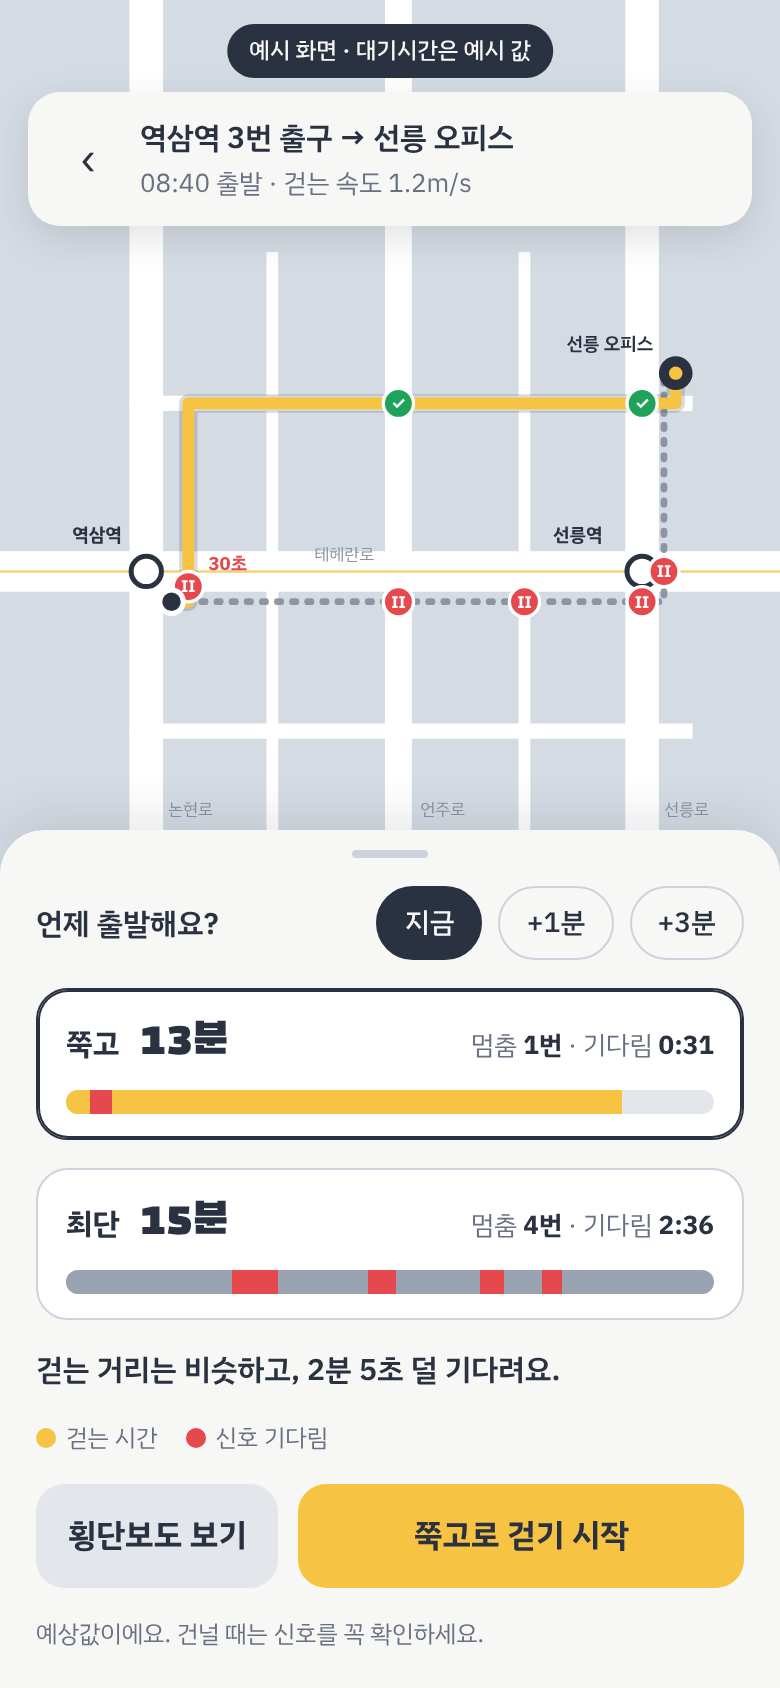
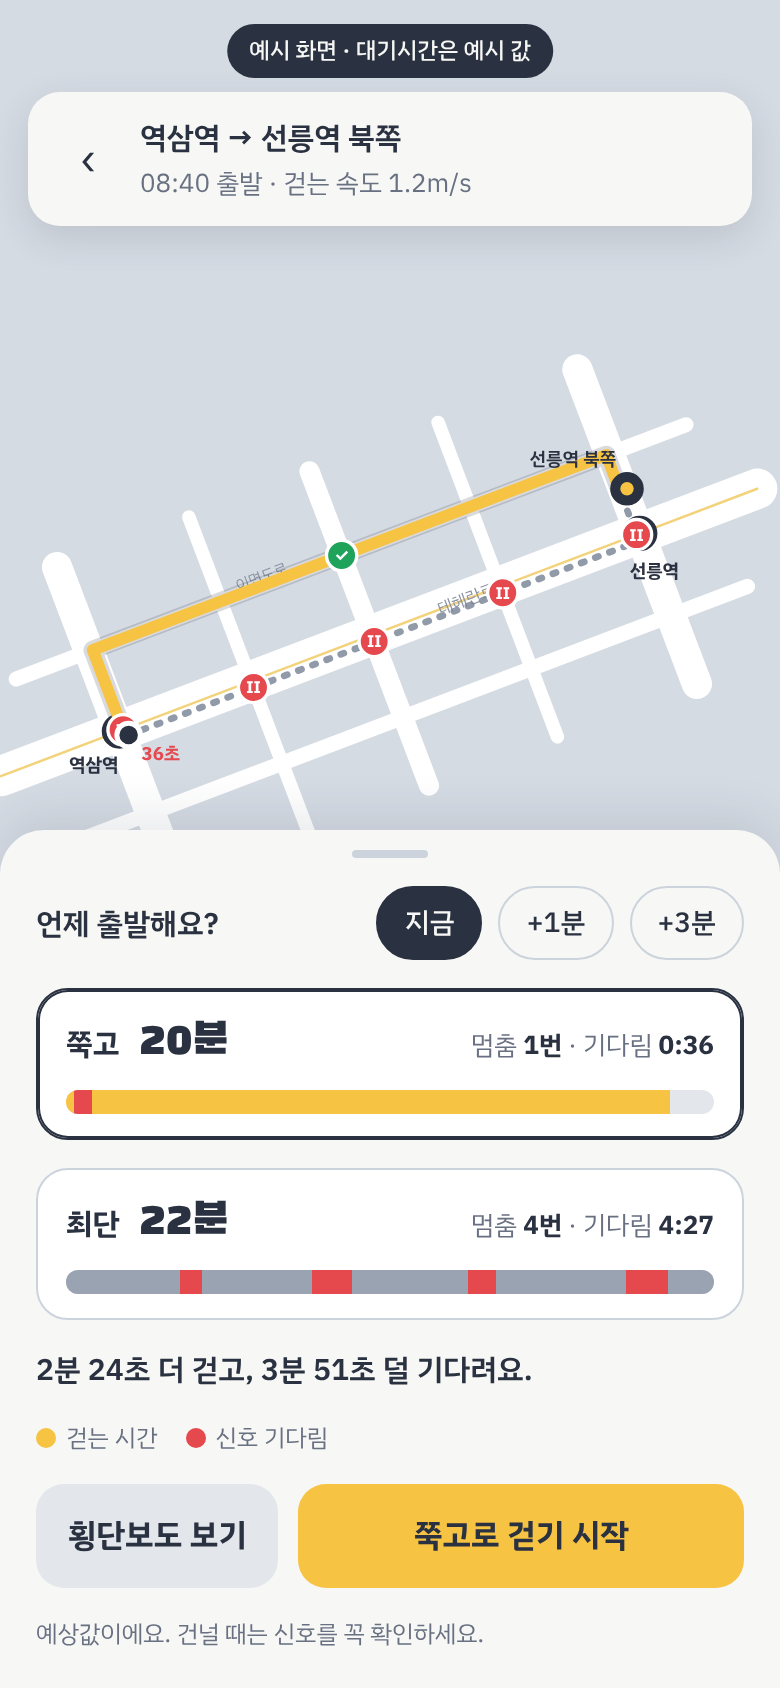
Prototype: draw the real Teheran-ro corridor
Place Yeoksam-Seolleung intersections at their real positions from the
nationwide intersection list and route along the real layout: the shortest
path follows Teheran-ro past four signals, the Jjukgo path takes the parallel
back street past two. Signal plans are still example values, retuned for the
new routes.

Claude-Session: https://claude.ai/code/session_01Y2WgFcYuk5dsuevPeJgQ1A

diff --git a/docs/prototype/index.html b/docs/prototype/index.html
@@ -191,13 +191,13 @@ button:focus-visible, input:focus-visible { outline: 3px solid var(--asphalt); o
     <div class="home-chips chips">
       <button class="chip" data-go="result">회사</button>
       <button class="chip" data-go="result">집</button>
-      <button class="chip" data-go="result">최근 · 선릉 오피스</button>
+      <button class="chip" data-go="result">최근 · 선릉역 북쪽</button>
     </div>
     <div class="sheet">
       <div class="grip"></div>
       <div class="row-label"><h2>지금 여기는 신호 패턴을 알고 있어요</h2></div>
       <p class="safety" style="font-size:13px">테헤란로 역삼역–선릉역 구간의 횡단보도는 신호 주기를 반영해 길을 찾아요. 다른 곳은 신호 개수만 따져요.</p>
-      <button class="btn btn-primary" data-go="result">선릉 오피스까지 길 찾기</button>
+      <button class="btn btn-primary" data-go="result">선릉역 북쪽까지 길 찾기</button>
     </div>
   </section>
 
@@ -206,7 +206,7 @@ button:focus-visible, input:focus-visible { outline: 3px solid var(--asphalt); o
     <div class="map" id="map-result"></div>
     <div class="topbar">
       <button class="icon-btn" data-go="home" aria-label="뒤로">‹</button>
-      <div class="trip"><b>역삼역 3번 출구 → 선릉 오피스</b><span id="depart-label">08:40 출발 · 걷는 속도 1.2m/s</span></div>
+      <div class="trip"><b>역삼역 → 선릉역 북쪽</b><span id="depart-label">08:40 출발 · 걷는 속도 1.2m/s</span></div>
     </div>
     <div class="sheet">
       <div class="grip"></div>
@@ -268,7 +268,7 @@ button:focus-visible, input:focus-visible { outline: 3px solid var(--asphalt); o
       <span class="logo">쭉고</span>
       <span class="date" id="card-date"></span>
       <div id="card-shape"></div>
-      <div class="kind">걷기 · 역삼역 → 선릉</div>
+      <div class="kind">걷기 · 역삼역 → 선릉역</div>
       <div class="stats">
         <div class="stat-big"><strong id="c-stops"></strong><span>멈춘 횟수</span></div>
         <div class="stat-big"><strong id="c-wait"></strong><span>신호 기다림</span></div>
@@ -284,25 +284,29 @@ button:focus-visible, input:focus-visible { outline: 3px solid var(--asphalt); o
 </div>
 
 <script>
-// 예시 데이터. 좌표는 지도 SVG(390×430) 기준, 1px ≈ 2m. 신호 계획(주기·초록·시작 오프셋)은 예시 값.
-const SPEED = 1.2, MPX = 2, BASE = 8 * 3600 + 40 * 60;
+// 경로 좌표는 미터 단위 (a = 테헤란로를 따라 역삼역에서 선릉역 쪽으로, p = 테헤란로에서 북쪽으로).
+// 교차로 위치는 전국 교차로 목록(행정안전부 한국지역정보개발원, 2026-10-28 수집)의 실제 좌표에서 계산했다.
+// 신호 계획(주기·초록 시간·시작 오프셋)은 아직 예시 값이다. 수집한 실제 주기로 바꿀 예정.
+const SPEED = 1.2, MPX = 1, BASE = 8 * 3600 + 40 * 60;
+const ANG = 20.8 * Math.PI / 180, UX = Math.cos(ANG), UY = Math.sin(ANG);
+const SCALE = 0.29, X0 = 34, Y0 = 345;   // 지도: 1px ≈ 3.4m, 북쪽이 위
+const P = (a, p) => { const e = a * UX - p * UY, n = a * UY + p * UX; return [+(X0 + e * SCALE).toFixed(1), +(Y0 - n * SCALE).toFixed(1)]; };
 const SIG = {
-  a: { c: 140, g: 30, o: 42, name: "테헤란로 횡단보도" },
-  b: { c: 140, g: 35, o: 9, name: "언주로 횡단보도 (북쪽)" },
-  c: { c: 150, g: 35, o: 95, name: "선릉로 횡단보도 (북쪽)" },
-  d: { c: 150, g: 25, o: 138, name: "언주로 횡단보도 (남쪽)" },
-  e: { c: 120, g: 35, o: 89, name: "역삼 골목 앞 횡단보도" },
-  f: { c: 140, g: 25, o: 17, name: "선릉로 횡단보도 (남쪽)" },
-  g: { c: 150, g: 25, o: 75, name: "선릉역 앞 테헤란로 횡단보도" },
+  "2217": { c: 150, g: 30, o: 53,  name: "역삼역 테헤란로 횡단보도" },
+  "2975": { c: 150, g: 25, o: 124, name: "고등교육재단 앞 횡단보도" },
+  "2219": { c: 150, g: 30, o: 124, name: "르네상스호텔 앞 횡단보도" },
+  "2974": { c: 150, g: 40, o: 117, name: "국민은행테헤란로 앞 횡단보도" },
+  "2212": { c: 150, g: 35, o: 12,  name: "선릉역 테헤란로 횡단보도" },
+  "4500": { c: 150, g: 40, o: 42,  name: "KT강남지사 앞 횡단보도" },
 };
 const ROUTES = {
-  jjuk: { label: "쭉고", pts: [[65,268],[75,268],[75,150],[200,150],[345,150],[365,150],[365,132]],
-    x: [{ at:[75,259], s:"a" }, { at:[125,150], s:null, name:"골목 (신호 없음)" }, { at:[200,150], s:"b" },
-        { at:[275,150], s:null, name:"골목 (신호 없음)" }, { at:[345,150], s:"c" }] },
-  short: { label: "최단", pts: [[65,268],[358,268],[358,132],[365,132]],
-    x: [{ at:[125,268], s:null, name:"골목 (신호 없음)" }, { at:[200,268], s:"d" }, { at:[275,268], s:"e" },
-        { at:[345,268], s:"f" }, { at:[358,250], s:"g" }, { at:[358,150], s:null, name:"이면도로 (신호 없음)" }] },
+  jjuk: { label: "쭉고", pts: [[15,-14],[8,-14],[8,175],[1135,175],[1135,95],[1150,95]],
+    x: [{ at:[8,0], s:"2217" }, { at:[289,175], s:null, name:"이면도로 골목 (신호 없음)" }, { at:[554,175], s:"4500" },
+        { at:[836,175], s:null, name:"이면도로 골목 (신호 없음)" }] },
+  short: { label: "최단", pts: [[15,-14],[1135,-14],[1135,95],[1150,95]],
+    x: [{ at:[289,-14], s:"2975" }, { at:[554,-14], s:"2219" }, { at:[836,-14], s:"2974" }, { at:[1135,0], s:"2212" }] },
 };
+const START = [15, -14], DEST = [1150, 95];
 
 function polyLen(p) { let s = 0; for (let i = 0; i < p.length - 1; i++) s += Math.hypot(p[i+1][0]-p[i][0], p[i+1][1]-p[i][1]); return s; }
 function along(pts, p) {
@@ -355,52 +359,52 @@ function phrase(s) { s = Math.round(Math.abs(s)); const m = Math.floor(s/60), r 
 
 // ---------- 지도 ----------
 function mapSVG(opts) {
-  const roads = [
-    // [x1,y1,x2,y2,width,name]
-    [-200,250,600,250,24,"테헤란로"], [40,150,375,150,9,""], [40,345,375,345,9,""],
-    [50,-400,50,640,20,"논현로"], [200,-400,200,640,16,"언주로"], [345,-400,345,640,20,"선릉로"],
-    [125,60,125,420,7,""], [275,60,275,420,7,""],
-  ];
+  const line = (pts, w, color, extra = "") => `<polyline points="${pts.map(q => P(...q).join(",")).join(" ")}" fill="none" stroke="${color}" stroke-width="${w}" stroke-linecap="round" stroke-linejoin="round" ${extra}/>`;
   const pad = opts.pad || 0;
-  let s = `<svg viewBox="0 ${-pad} 390 ${430 + pad}" preserveAspectRatio="xMidYMid meet" role="img" aria-label="역삼역에서 선릉역까지 지도">`;
+  let s = `<svg viewBox="0 ${-pad} 390 ${430 + pad}" preserveAspectRatio="xMidYMid meet" role="img" aria-label="역삼역에서 선릉역까지 테헤란로 지도">`;
   s += `<rect x="-200" y="${-pad - 200}" width="790" height="${830 + pad}" fill="var(--block)"/>`;
-  for (const [x1,y1,x2,y2,w] of roads) s += `<line x1="${x1}" y1="${y1}" x2="${x2}" y2="${y2}" stroke="var(--road)" stroke-width="${w}"/>`;
-  // 테헤란로 중앙선
-  s += `<line x1="-200" y1="250" x2="600" y2="250" stroke="#F2D27A" stroke-width="1.5"/>`;
-  // 길 이름
-  s += `<text x="150" y="243" font-size="10" fill="#8A93A3" font-family="var(--body)">테헤란로</text>`;
-  for (const [x, n] of [[50,"논현로"],[200,"언주로"],[345,"선릉로"]]) s += `<text x="${x+13}" y="395" font-size="10" fill="#8A93A3">${n}</text>`;
+  // 길: 테헤란로, 북쪽 이면도로, 남쪽 이면도로, 교차로마다 가로지르는 길
+  const cross = [[0,18],[289,8],[554,12],[836,8],[1142,18]];
+  for (const [a, w] of cross) s += line([[a,-330],[a,360]], w, "var(--road)");
+  s += line([[-160,175],[1310,175]], 9, "var(--road)");
+  s += line([[-160,-180],[1310,-180]], 9, "var(--road)");
+  s += line([[-260,0],[1400,0]], 24, "var(--road)");
+  s += line([[-260,0],[1400,0]], 1.5, "#F2D27A");
+  const [lx, ly] = P(700, -11);
+  s += `<text x="${lx}" y="${ly}" font-size="10" fill="#8A93A3" transform="rotate(${-20.8} ${lx} ${ly})">테헤란로</text>`;
+  const [bx, by] = P(330, 182);
+  s += `<text x="${bx}" y="${by}" font-size="9" fill="#8A93A3" transform="rotate(${-20.8} ${bx} ${by})">이면도로</text>`;
   // 역
-  for (const [x, y, n, lx] of [[50,250,"역삼역",6],[345,250,"선릉역",292]]) {
+  for (const [a, n, dx, dy] of [[0,"역삼역",-30,24],[1142,"선릉역",-6,26]]) {
+    const [x, y] = P(a, 0);
     s += `<circle cx="${x}" cy="${y}" r="9" fill="#fff" stroke="var(--asphalt)" stroke-width="3"/>`;
-    s += `<text x="${lx}" y="${y-18}" font-size="11" font-weight="700" fill="var(--asphalt)">${n}</text>`;
+    s += `<text x="${x+dx}" y="${y+dy}" font-size="11" font-weight="700" fill="var(--asphalt)">${n}</text>`;
   }
   if (opts.routes) {
     const order = opts.focus === "short" ? ["jjuk","short"] : ["short","jjuk"];
     for (const k of order) {
-      const r = ROUTES[k], d = r.pts.map(p => p.join(",")).join(" ");
       const on = opts.focus === k;
-      if (k === "short") s += `<polyline points="${d}" fill="none" stroke="#7E8899" stroke-width="${on?6:4}" stroke-dasharray="2 7" stroke-linecap="round" stroke-linejoin="round" opacity="${on?1:.85}"/>`;
-      else s += `<polyline points="${d}" fill="none" stroke="var(--asphalt)" stroke-width="${on?11:9}" stroke-linecap="round" stroke-linejoin="round" opacity=".18"/><polyline points="${d}" fill="none" stroke="var(--lane)" stroke-width="${on?7:5}" stroke-linecap="round" stroke-linejoin="round" opacity="${on?1:.7}"/>`;
+      if (k === "short") s += line(ROUTES[k].pts, on ? 6 : 4, "#7E8899", `stroke-dasharray="2 7" opacity="${on ? 1 : .85}"`);
+      else s += line(ROUTES[k].pts, on ? 11 : 9, "var(--asphalt)", `opacity=".18"`) + line(ROUTES[k].pts, on ? 7 : 5, "var(--lane)", `opacity="${on ? 1 : .7}"`);
     }
     for (const k of ["short","jjuk"]) {
-      const sim = opts.sims[k];
-      sim.xings.forEach(x => {
+      opts.sims[k].xings.forEach(x => {
         if (!x.sig) return;
-        const [px, py] = ROUTES[k].x.find(z => z.s && SIG[z.s].name === x.name).at;
+        const [px, py] = P(...ROUTES[k].x.find(z => z.s && SIG[z.s].name === x.name).at);
         const stop = x.wait > 2;
         s += `<g><circle cx="${px}" cy="${py}" r="9" fill="${stop ? "var(--stop)" : "var(--go)"}" stroke="#fff" stroke-width="2"/>`;
         s += `<text x="${px}" y="${py+3.5}" font-size="10" font-weight="700" fill="#fff" text-anchor="middle">${stop ? "Ⅱ" : "✓"}</text></g>`;
-        if (stop && opts.focus === k) s += `<text x="${px+12}" y="${py-10}" font-size="11" font-weight="700" fill="var(--stop)">${x.wait}초</text>`;
+        if (stop && opts.focus === k) s += `<text x="${px+11}" y="${py+18}" font-size="11" font-weight="700" fill="var(--stop)">${x.wait}초</text>`;
       });
     }
   }
   // 출발·도착
-  s += `<circle cx="65" cy="268" r="7" fill="var(--asphalt)" stroke="#fff" stroke-width="3"/>`;
-  s += `<g><circle cx="365" cy="132" r="10" fill="var(--asphalt)"/><circle cx="365" cy="132" r="4" fill="var(--lane)"/></g>`;
-  s += `<text x="300" y="118" font-size="11" font-weight="600" fill="var(--asphalt)">선릉 오피스</text>`;
-  if (opts.walker) s += `<circle id="walker" cx="65" cy="268" r="9" fill="#2E7BF6" stroke="#fff" stroke-width="3"/>`;
-  if (opts.me) s += `<circle cx="65" cy="268" r="16" fill="#2E7BF6" opacity=".18"/><circle cx="65" cy="268" r="8" fill="#2E7BF6" stroke="#fff" stroke-width="3"/>`;
+  const [sx, sy] = P(...START), [ex, ey] = P(...DEST);
+  s += `<circle cx="${sx}" cy="${sy}" r="7" fill="var(--asphalt)" stroke="#fff" stroke-width="3"/>`;
+  s += `<g><circle cx="${ex}" cy="${ey}" r="10" fill="var(--asphalt)"/><circle cx="${ex}" cy="${ey}" r="4" fill="var(--lane)"/></g>`;
+  s += `<text x="${ex-58}" y="${ey-14}" font-size="11" font-weight="600" fill="var(--asphalt)">선릉역 북쪽</text>`;
+  if (opts.walker) s += `<circle id="walker" cx="${sx}" cy="${sy}" r="9" fill="#2E7BF6" stroke="#fff" stroke-width="3"/>`;
+  if (opts.me) s += `<circle cx="${sx}" cy="${sy}" r="16" fill="#2E7BF6" opacity=".18"/><circle cx="${sx}" cy="${sy}" r="8" fill="#2E7BF6" stroke="#fff" stroke-width="3"/>`;
   return s + "</svg>";
 }
 
@@ -452,7 +456,7 @@ function renderWalk() {
   cancelAnimationFrame(walkTimer);
   const step = now => {
     const f = reduce ? 0.32 : Math.min(1, (now - start) / DUR), dist = f * L;
-    const [x, y] = pointAt(pts, dist), w = $("walker");
+    const [x, y] = P(...pointAt(pts, dist)), w = $("walker");
     if (w) { w.setAttribute("cx", x); w.setAttribute("cy", y); }
     const elapsed = f * sim.total;
     const next = sim.xings.find(z => z.sig && z.d > dist + 1);
@@ -477,7 +481,7 @@ function renderDone() {
   $("c-compare").textContent = `최단으로 갔다면 ${other.stops}번 멈추고 ${mmss(other.wait)} 기다렸을 거예요`;
   $("card-date").textContent = `10월 28일 ${clock(BASE + state.dep)}`;
   // 경로 실루엣: 쭉고 경로를 정사각형 안에 맞춰 그리고 멈춘 곳만 빨간 점
-  const pts = ROUTES.jjuk.pts, xs = pts.map(p => p[0]), ys = pts.map(p => p[1]);
+  const pts = ROUTES.jjuk.pts.map(q => P(...q)), xs = pts.map(p => p[0]), ys = pts.map(p => p[1]);
   const minX = Math.min(...xs), maxX = Math.max(...xs), minY = Math.min(...ys), maxY = Math.max(...ys);
   const k = 150 / Math.max(maxX - minX, maxY - minY), ox = (190 - (maxX - minX) * k) / 2, oy = (190 - (maxY - minY) * k) / 2;
   const tx = p => [(p[0] - minX) * k + ox, (p[1] - minY) * k + oy];
@@ -485,7 +489,7 @@ function renderDone() {
   s += `<polyline points="${pts.map(p => tx(p).join(",")).join(" ")}" fill="none" stroke="var(--lane)" stroke-width="7" stroke-linecap="round" stroke-linejoin="round"/>`;
   const [sx, sy] = tx(pts[0]), [ex, ey] = tx(pts[pts.length - 1]);
   s += `<circle cx="${sx}" cy="${sy}" r="6" fill="#262D3B" stroke="var(--lane)" stroke-width="3"/><circle cx="${ex}" cy="${ey}" r="7" fill="var(--lane)"/>`;
-  sim.xings.filter(x => x.wait > 2).forEach(x => { const [px, py] = tx(pointAt(pts, x.d)); s += `<circle cx="${px}" cy="${py}" r="7" fill="var(--stop)" stroke="#262D3B" stroke-width="2.5"/>`; });
+  sim.xings.filter(x => x.wait > 2).forEach(x => { const [px, py] = tx(P(...pointAt(ROUTES.jjuk.pts, x.d))); s += `<circle cx="${px}" cy="${py}" r="7" fill="var(--stop)" stroke="#262D3B" stroke-width="2.5"/>`; });
   $("card-shape").innerHTML = s + "</svg>";
 }
 

diff --git a/docs/UX.md b/docs/UX.md
@@ -27,7 +27,9 @@
 - 글꼴: 숫자·로고 Black Han Sans, 본문 IBM Plex Sans KR.
 
 ## 프로토타입의 계산 방식
-- 걷는 속도 1.2m/s, 지도 1px = 2m.
+- 지도와 경로는 실제 위치: 테헤란로 역삼역(2217)–선릉역(2212) 1,142m, 동북동 20.8°. 교차로 좌표는 전국 교차로 목록(2026-10-28)에서 계산.
+- 최단: 테헤란로 남쪽 보도, 신호 4곳(고등교육재단·르네상스호텔·국민은행테헤란로·선릉역). 쭉고: 역삼역에서 건너 북쪽 이면도로, 신호 2곳(역삼역·KT강남지사), 약 170m 더 걷는다.
+- 걷는 속도 1.2m/s.
 - 횡단보도마다 예시 신호 계획(주기·초록 시간·시작 오프셋)을 두고, 도착 시각의 위상으로 대기를 계산한다. 실제 서비스에서는 이 계획 자리에 수집한 신호 패턴이 들어간다.
 - 2초 넘게 기다리면 "멈춤" 1번으로 센다.
 
